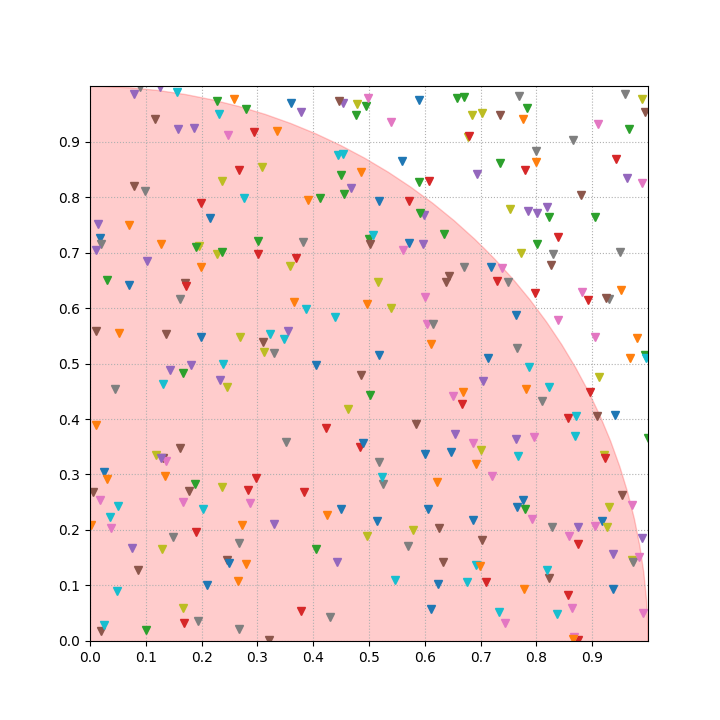
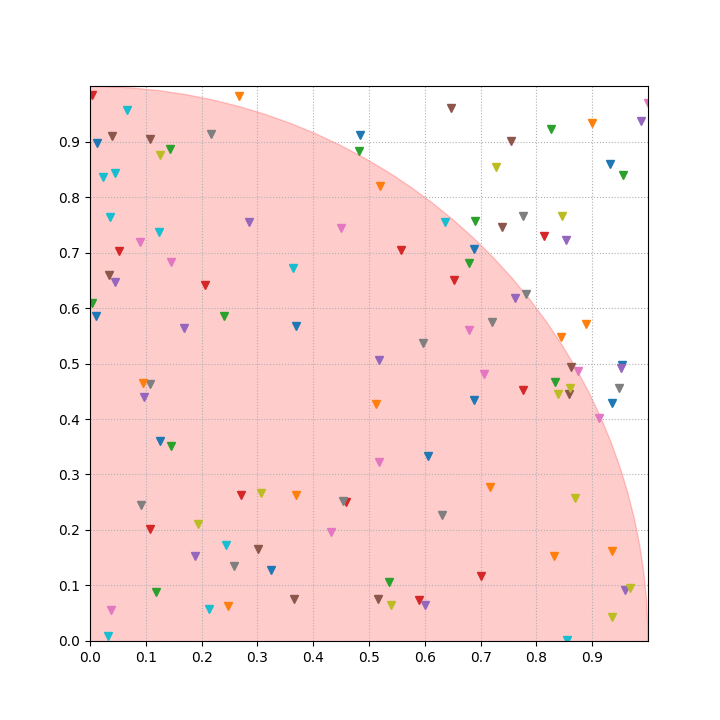
removed log area, re-created settings view, fixed minor bugs

diff --git a/monte_carlo_pi.py b/monte_carlo_pi.py
@@ -7,7 +7,7 @@ from PyQt5.QtGui import QPixmap, QTextCursor
 from PyQt5.QtCore import Qt, QThread, QCoreApplication
 from numbers import Real
 from plot_graph import get_preview_shot, get_plot_shot
-from random import uniform
+from numpy.random import uniform
 from time import sleep
 
 
@@ -22,7 +22,7 @@ class MC_Pi_Framework(QWidget):
 
 		grid = QGridLayout()
 		grid.addWidget(self.add_graph_panel(),0,0,5,1)
-		grid.addWidget(self.add_log_panel(),0,1)
+		grid.addWidget(self.add_comment_panel(),0,1)
 		grid.addWidget(self.add_status_panel(),1,1)
 		grid.addWidget(self.add_settings_panel(),2,1)
 		grid.addWidget(self.add_confirm_btn(),3,1)
@@ -52,13 +52,19 @@ class MC_Pi_Framework(QWidget):
 		return box
 
 
-	def add_log_panel(self):
-		box = QGroupBox('Log')
+	def add_comment_panel(self):
+		box = QGroupBox()
 		layout = QGridLayout()
-		self.log = QTextEdit("<font color=red>&lt;Developed by @ChiantiBlaze&gt;</font>\n")
-		self.log.setFixedHeight(180)
-		self.log.setReadOnly(True)
-		layout.addWidget(self.log)
+		self.comment = QTextEdit()
+		self.comment.setHtml("""
+			if total_dots → &infin; ,<br>
+			&nbsp; <font color=red>π</font> / 4 = (total_true / total_dots)<br>
+			<br>
+			<font color=grey>developed by <font color=red>@ChiantiBlaze</font></font>
+		""")
+		self.comment.setFixedHeight(100)
+		self.comment.setReadOnly(True)
+		layout.addWidget(self.comment)
 		box.setLayout(layout)
 
 		return box
@@ -92,6 +98,19 @@ class MC_Pi_Framework(QWidget):
 
 
 	def add_settings_panel(self):
+		box = QGroupBox("Settings")
+		layout = QGridLayout()
+
+		# Dots per Action RadioBox #
+		dsr_box = QGroupBox("Dots per Action: ")
+		dsr_layout = QGridLayout()
+		self.dsr_p1 = QRadioButton("1"); dsr_layout.addWidget(self.dsr_p1, 0,0)
+		self.dsr_p64 = QRadioButton("64"); dsr_layout.addWidget(self.dsr_p64, 0,1)
+		self.dsr_p256 = QRadioButton("256"); dsr_layout.addWidget(self.dsr_p256, 0,2)
+		self.dsr_p2048 = QRadioButton("2048"); dsr_layout.addWidget(self.dsr_p2048, 0,3)
+		self.dsr_p1.setChecked(True)
+		dsr_box.setLayout(dsr_layout)		
+
 		# Area Criteria #
 		ac_box = QGroupBox("Area Criteria: ")
 		ac_layout = QGridLayout()
@@ -106,7 +125,11 @@ class MC_Pi_Framework(QWidget):
 		ac_layout.addWidget(self.criterion_scale, 2,1)
 		ac_box.setLayout(ac_layout)
 
-		return ac_box
+		layout.addWidget(dsr_box, 0,0)
+		layout.addWidget(ac_box, 1,0)
+		box.setLayout(layout)
+
+		return box
 
 
 	def add_confirm_btn(self):
@@ -161,6 +184,9 @@ class MC_Pi(MC_Pi_Framework):
 			self.display.setPixmap(QPixmap())
 			return
 
+		# modify formula
+		self.status_formula = QLabel('(x-{a})²+(y-{b})²=({r})²'.format(a=a,b=b,r=r))
+
 		# get preview shot and update the image #
 		get_preview_shot(a,b,r)
 		shot = QPixmap('./shots/preview.png')
@@ -182,30 +208,32 @@ class MC_Pi(MC_Pi_Framework):
 		x_range = (a, a+r)
 		y_range = (b, b+r)
 
+		# get counter #
+		cnt = 1
+		if self.dsr_p64.isChecked(): cnt = 64
+		elif self.dsr_p256.isChecked(): cnt = 256
+		elif self.dsr_p2048.isChecked(): cnt = 2048
+
+
 
 		while True:
 			# plot based on random number #
-			x,y = get_plot_shot(uniform(*x_range), uniform(*y_range))
-			outcome = (x-a)**2+(y-b)**2 <= r**2
+			dot_true, dot_false = get_plot_shot(\
+				uniform(*x_range,cnt), uniform(*y_range,cnt),a,b,r)
+			
 			shot = QPixmap('./shots/plot.png')
 			shot = shot.scaled(self.display.size(), Qt.KeepAspectRatio, \
 									transformMode = Qt.SmoothTransformation)
 			self.display.setPixmap(shot)
 
 			# update status #
-			self.status_total.setText(str(int(self.status_total.text())+1))
-			if outcome:
-				self.status_true.setText(str(int(self.status_true.text())+1))
-			else:
-				self.status_false.setText(str(int(self.status_false.text())+1))
+			self.status_total.setText(str(int(self.status_total.text())+cnt))
+			self.status_true.setText(str(int(self.status_true.text())+dot_true))
+			self.status_false.setText(str(int(self.status_false.text())+dot_false))
 
 			if int(self.status_false.text()) != 0:
 				self.status_pi_4.setText(str("%.10f"%(int(self.status_true.text())/int(self.status_total.text()))))
 				self.status_pi.setText(str("%.10f"%(4*int(self.status_true.text())/int(self.status_total.text()))))
 			
 
-			self.log.setHtml(self.log.toPlainText() + \
-					"({}, {})...... <font color={}>{}</font>\n".format(\
-					"%.8f"%x,"%.8f"%y,'red' if outcome else 'grey', outcome))
-			self.log.moveCursor(QTextCursor.End)
 			QCoreApplication.processEvents()

diff --git a/plot_graph.py b/plot_graph.py
@@ -25,8 +25,16 @@ def get_preview_shot(a,b,r):
 	plt.savefig('shots/preview.png')
 
 
-def get_plot_shot(x,y):
-	plt.plot(x,y, "v")
+def get_plot_shot(xs,ys,a,b,r):
+	plt.plot(xs,ys, "v")
 	plt.savefig('shots/plot.png')
-	return (x,y)
 
+	dot_true = 0
+	dot_false = 0
+
+	for i in range(0,len(xs)):
+		if (xs[i]-a)**2+(ys[i]-b)**2 <= r**2:
+			dot_true+=1
+			continue
+		dot_false+=1
+	return (dot_true,dot_false)
